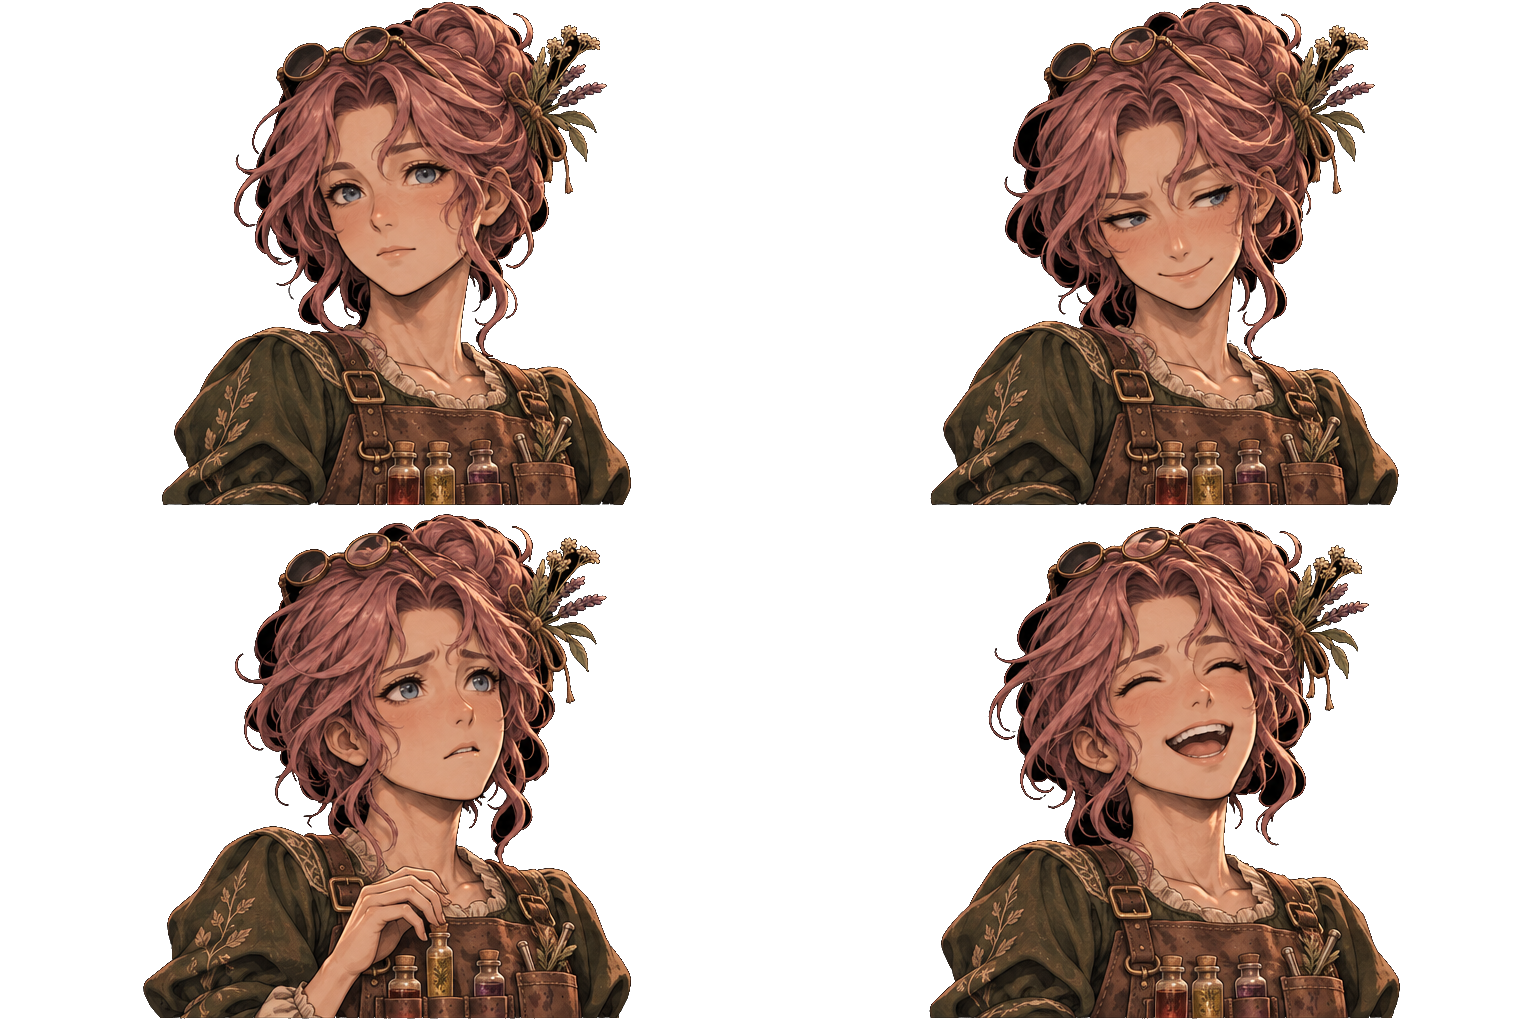
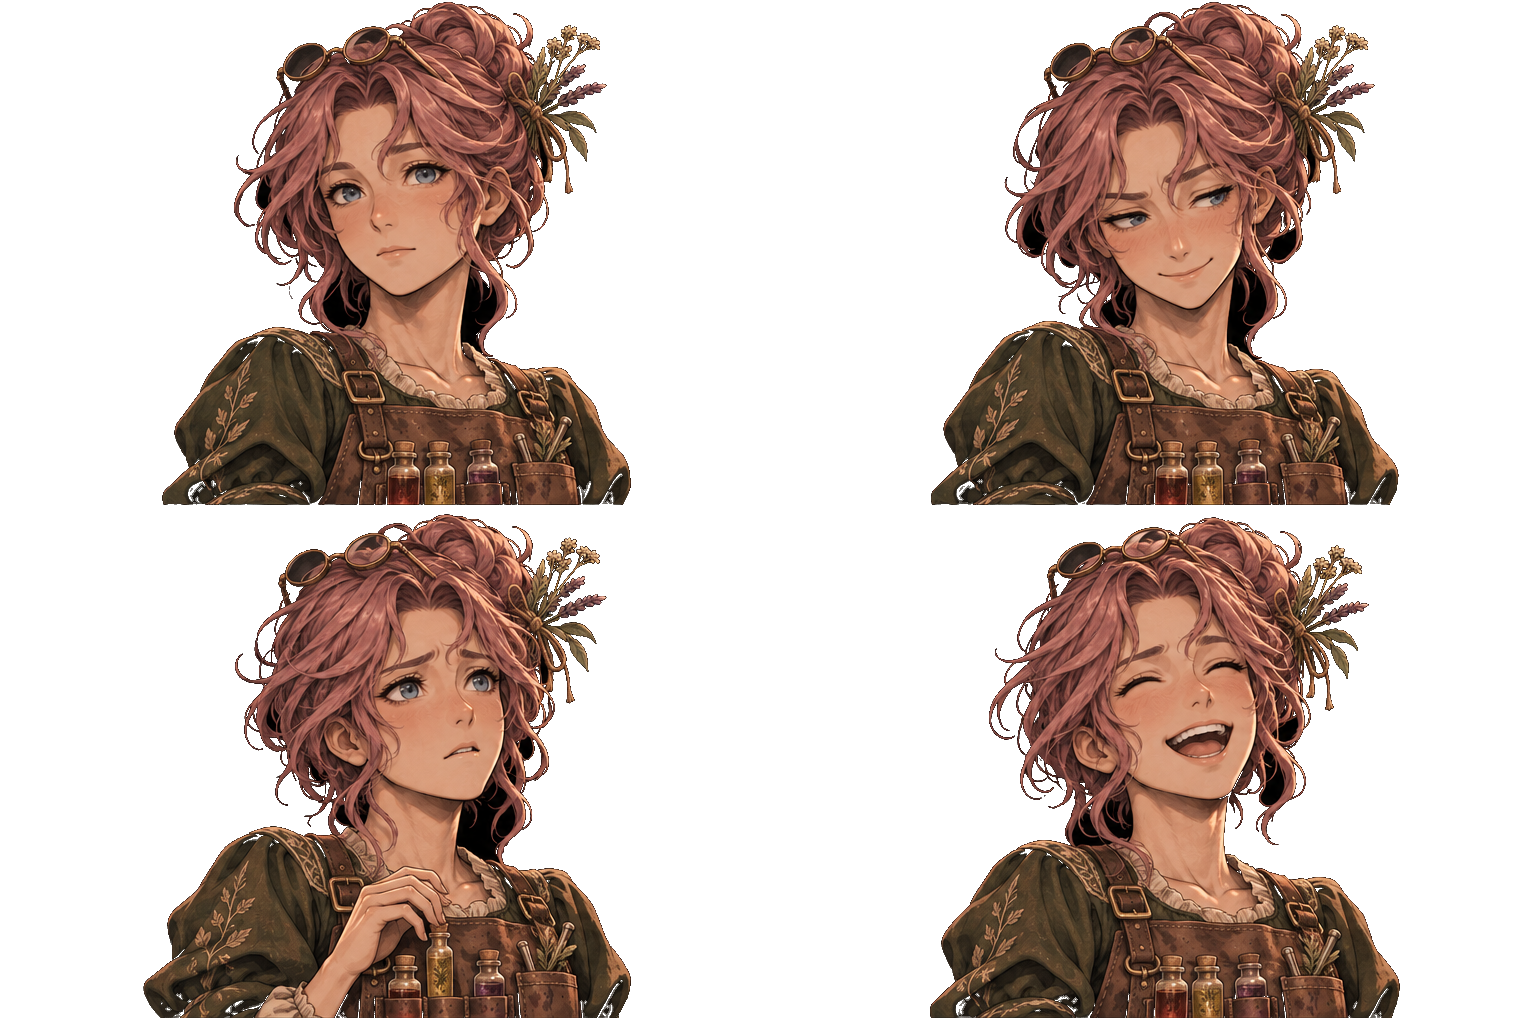
Finitions : venin persistant, boss en furie, Ysolde reste, portraits et perron
- Le venin reste après le combat (sauvegardé) et ronge aux combats suivants tant que le héros
  n'a pas bu d'antidote ; l'antidote se boit aussi depuis le grimoire, qui affiche « Empoisonné ».
- Boss plus coriaces : gardien du temple et araignée géante renforcés, et en furie sous un seuil
  de PV (deux attaques par tour, MonsterData.enrage_below).
- Après la lecture du parchemin, Ysolde décide de rester avec Zylrak jusqu'au temple du Loup.
- Portraits mieux détourés (poches noires entre les mèches, liseré).
- Maison des jumelles : collision ajoutée sur le perron, à droite de l'escalier.

diff --git a/README.md b/README.md
@@ -56,7 +56,8 @@ Six coffres sont cachés dans le village, la forêt et les ruines (coffre en boi
 
   Margot paie 40 écus dans les deux cas. Scènes et scripts : `scenes/maps/voleur/`, `scripts/characters/chien_compagnon.gd`, `scenes/maps/flair_chien.gd` ; choix dans les dialogues : `Cutscene.choose`.
 - **Contrat « Dans le noir de la grotte »** : le forgeron confie sa torche ; au fond de la grotte du chariot, l'araignée géante garde le filon de pierre-de-braise. Rapportée à la forge, la pierre devient la **Lame de braise** (+3 en attaque), avec 30 écus. Les étapes s'affichent dans le journal, et l'objectif sur la mini-carte.
-- **Le venin** : les araignées empoisonnent ; un héros empoisonné perd des PV au début de chacun de ses tours, jusqu'à la fin du combat ou un **antidote** (en vente chez Myrtille, et deux dans un coffre de la grotte).
+- **Le venin** : les araignées empoisonnent ; un héros empoisonné perd des PV au début de chacun de ses tours, et le venin ne part pas tout seul : il ronge encore aux combats suivants, tant que le héros n'a pas bu d'**antidote** (en combat ou depuis le grimoire ; en vente chez Myrtille, et deux dans un coffre de la grotte). Le grimoire indique qui est empoisonné.
+- **Les boss** (le gardien du temple, l'araignée géante) entrent en **furie** quand ils sont bien entamés : ils attaquent alors deux fois par tour (`MonsterData.enrage_below`).
 - **Les écus** : Zylrak en a 30 au départ et en gagne à chaque victoire ; ils s'affichent en bas du grimoire.
 - **Nouveaux intérieurs** (`tools/make_interieurs.gd`) : la ferme-fournil de Margot (four à pain, pétrin, sacs de farine) et la chambre qu'Aelis loue.
 - **La maison des jumelles** (la porte de Mirabelle) : Myrtille, sa jumelle, y vend des potions (15 écus), des fioles de mana (20 écus) et des antidotes (12 écus).
@@ -110,7 +111,7 @@ Trois salles, de plus en plus profondes (générées par `tools/make_temple.gd`)
 - **La galerie** : un long couloir hanté par des goules, des zombies et des squelettes, avec une alcôve de chaque côté (l'Amulette des Yrenn, des potions).
 - **La salle du gardien** : le grand cercle rituel, les sceaux au sol, des statues de mages yrenn, des torches et des braseros. Au fond, devant l'autel, se dresse le gardien, et le corps du marchand gît à côté.
 
-**Les gardiens et les fragments d'âme.** Les Yrenn ont brisé l'âme de la Bête en quatre éclats, un par temple, et lié leurs propres âmes aux sceaux pour les garder. Sous la lune noire, l'éclat a dévoré le Yrenn qui le gardait et pris son armure ; le culte (des membres renégats de l'Ordre des Cendres) a brisé le sceau avec le sang du marchand. Zylrak doit donc vaincre le gardien corrompu (on ne peut pas fuir ce combat), puis enfermer dans la cendre la braise noire qui s'en échappe : c'était le rôle des Ashwardens, héritiers des Yrenn. Il obtient le **fragment d'âme** ; sur l'autel, le **parchemin des Yrenn** explique qu'il faut réunir les quatre et les rendre ensemble à la flamme pour resceller la Bête, et indique le prochain temple (le Loup, sous le lac). Zylrak examine le corps du marchand, puis rentre l'annoncer à Oswin, qui le récompense : la quête du marchand s'arrête là.
+**Les gardiens et les fragments d'âme.** Les Yrenn ont brisé l'âme de la Bête en quatre éclats, un par temple, et lié leurs propres âmes aux sceaux pour les garder. Sous la lune noire, l'éclat a dévoré le Yrenn qui le gardait et pris son armure ; le culte (des membres renégats de l'Ordre des Cendres) a brisé le sceau avec le sang du marchand. Zylrak doit donc vaincre le gardien corrompu (on ne peut pas fuir ce combat), puis enfermer dans la cendre la braise noire qui s'en échappe : c'était le rôle des Ashwardens, héritiers des Yrenn. Il obtient le **fragment d'âme** ; sur l'autel, le **parchemin des Yrenn** explique qu'il faut réunir les quatre et les rendre ensemble à la flamme pour resceller la Bête, et indique le prochain temple (le Loup, sous le lac). Zylrak examine le corps du marchand, puis rentre l'annoncer à Oswin, qui le récompense : la quête du marchand s'arrête là. Ysolde, elle, reste : les goules continueront de sortir de terre tant que la Bête remue, et elle s'est juré de ne plus laisser personne disparaître sous ses yeux ; elle accompagne Zylrak jusqu'au temple du Loup.
 
 ## Organisation du projet
 
